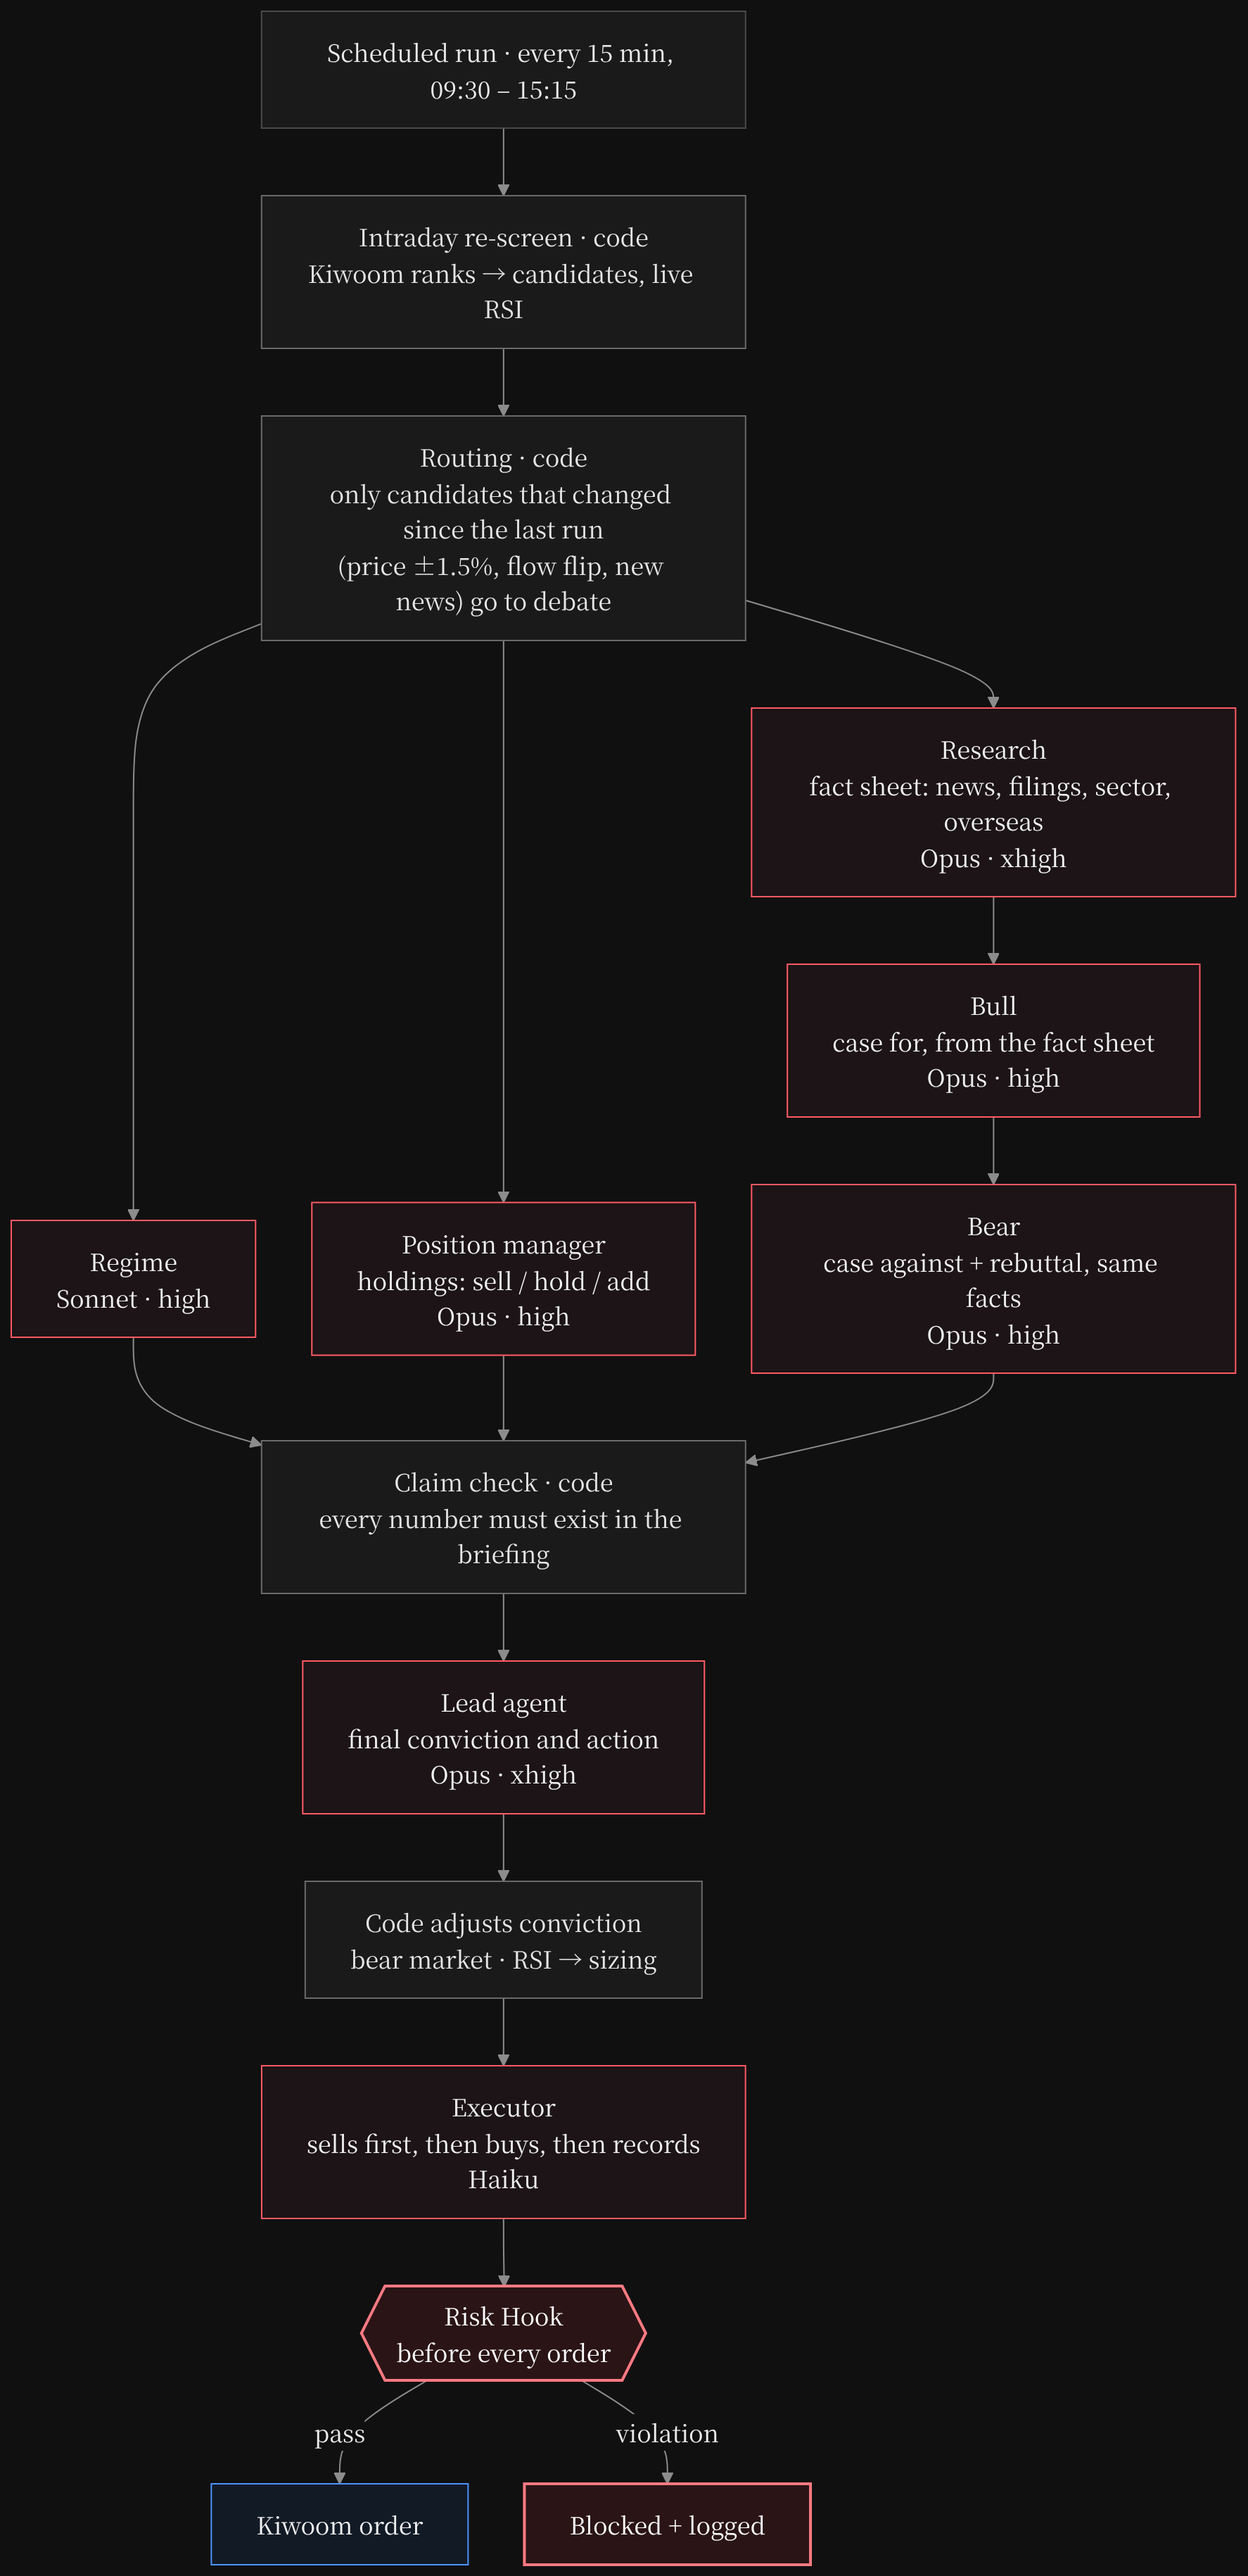
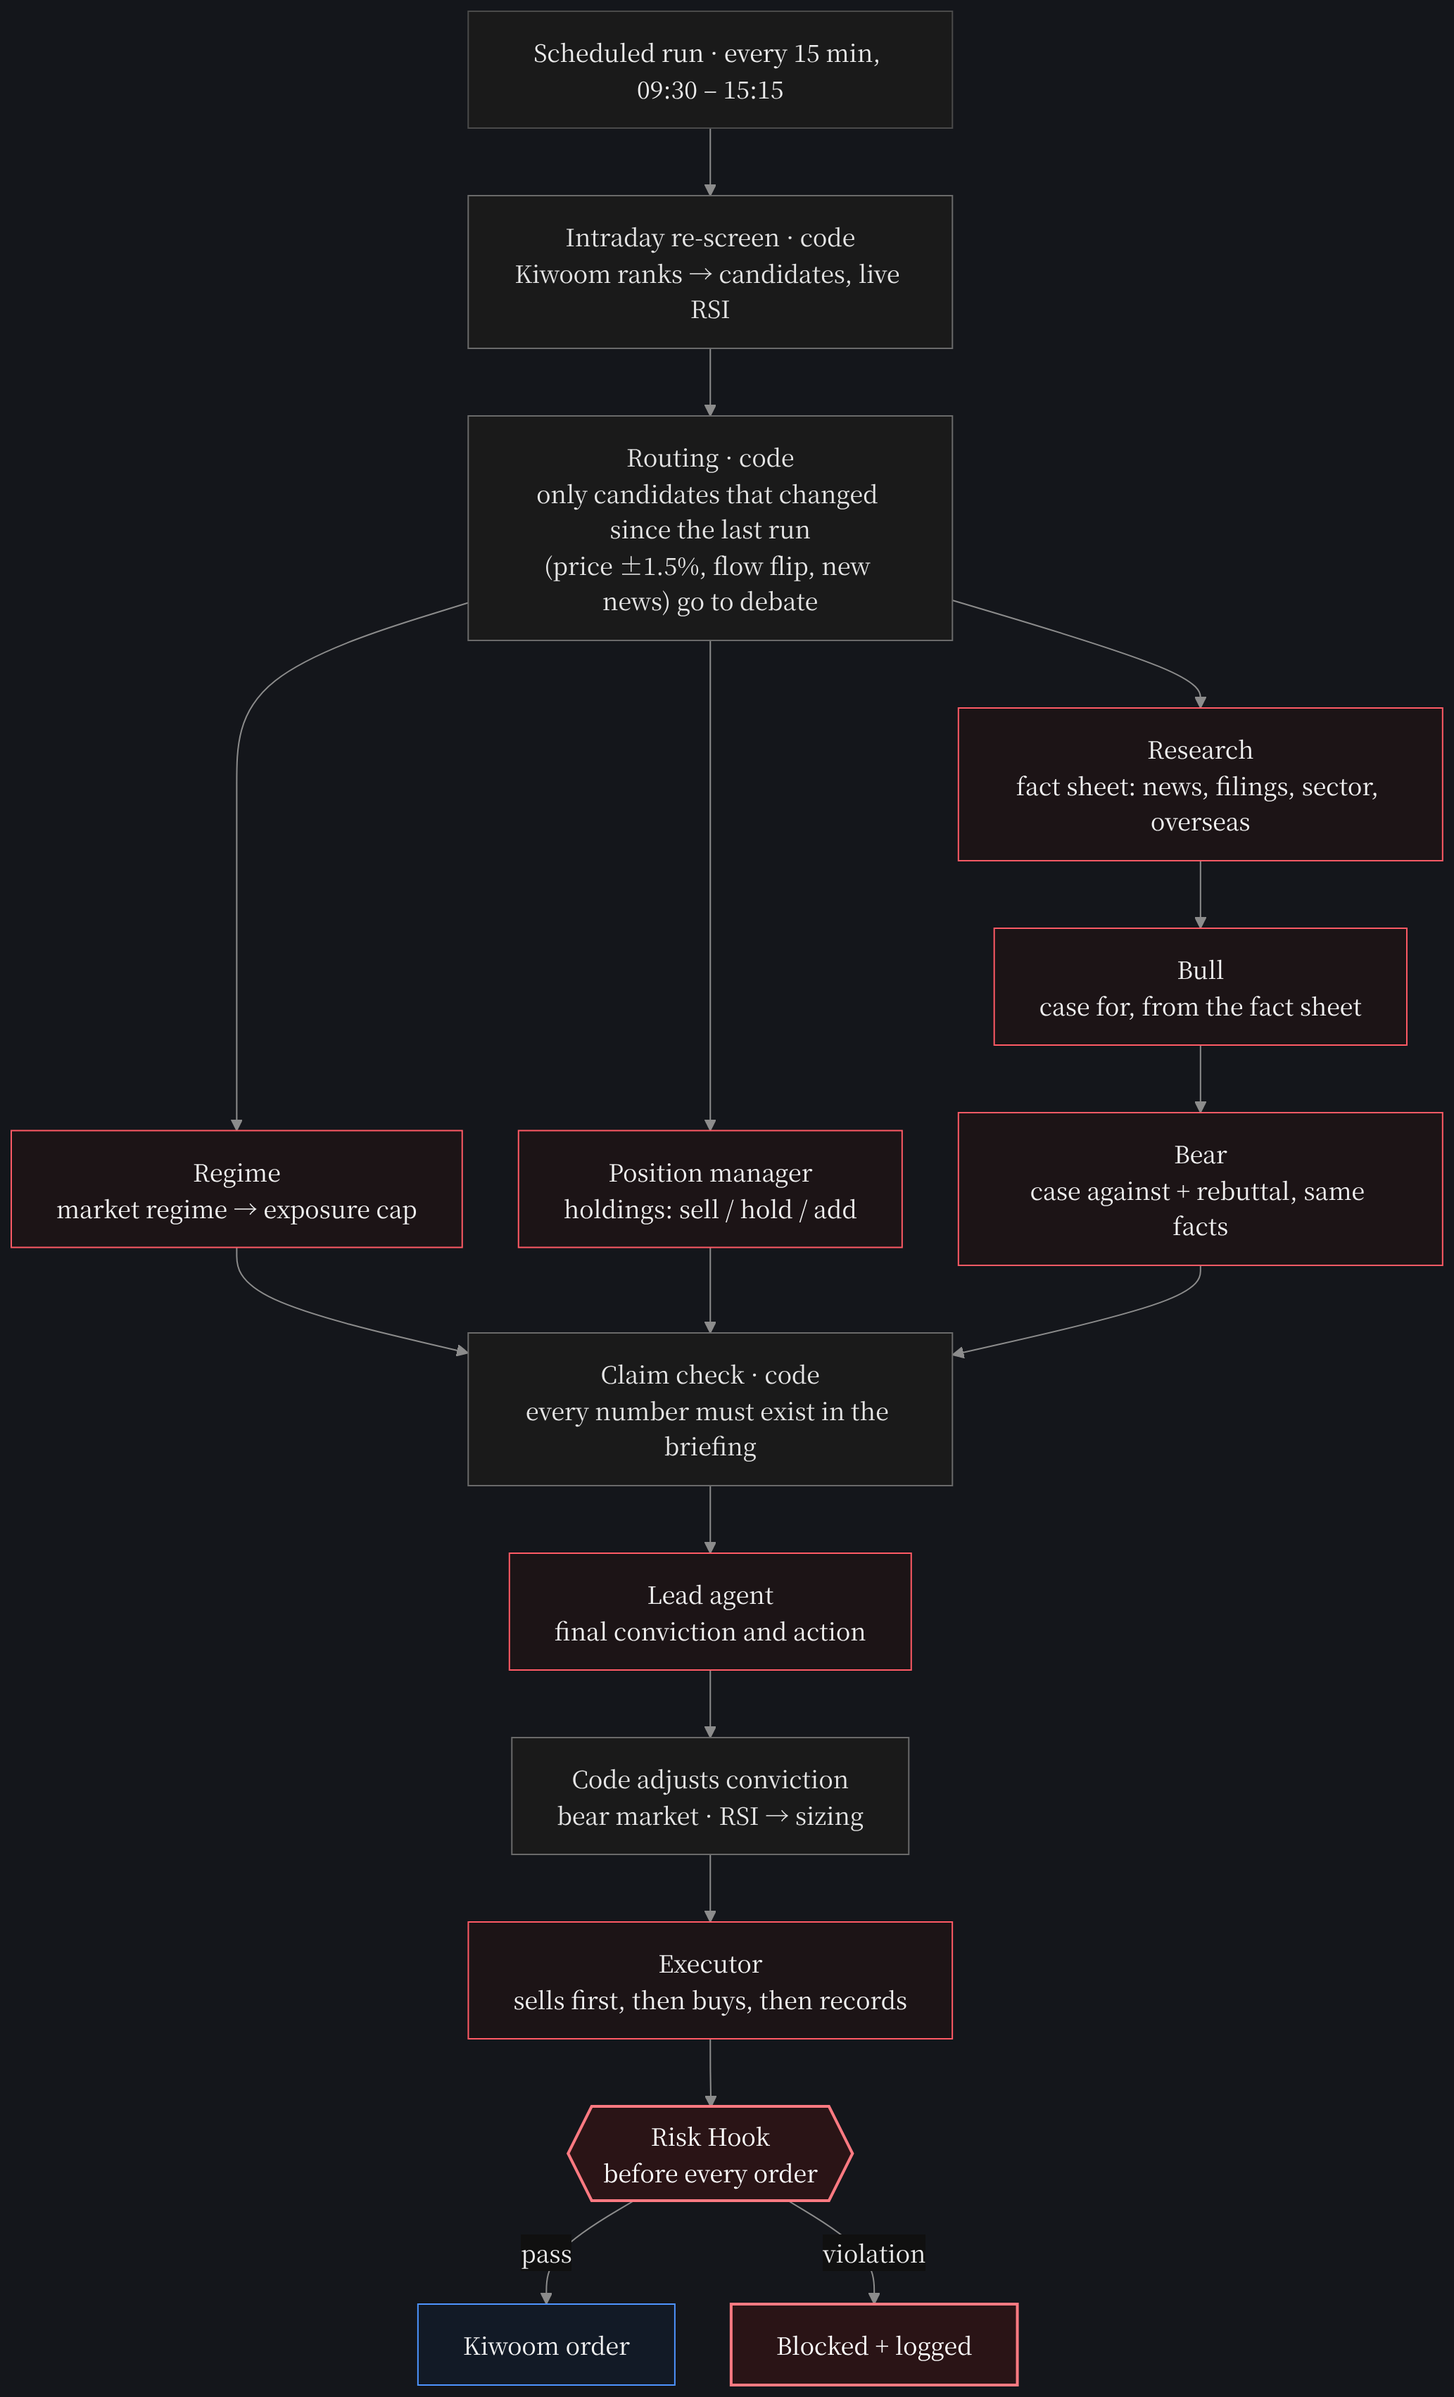
README · 도식에서 모델 이름 빼기
Claude-Session: https://claude.ai/code/session_01ATjxQjs57VEtPfES8zkL7L

diff --git a/README.ko.md b/README.ko.md
@@ -42,18 +42,17 @@ LLM에게 매매를 통째로 맡기면 두 가지가 문제입니다.
 
 <p align="center"><img src="assets/diagrams/decision.ko.png" alt="판단 1회" width="520"></p>
 
-| 에이전트 | 하는 일 | 모델 |
-|---|---|---|
-| 총괄 | 최종 확신도 · 행동 결정, 나머지 지휘 | Opus 5.5 · xhigh |
-| 국면 | 시장 국면(상승 · 횡보 · 하락) → 주식 비중 상한 | Opus 5.5 |
-| 보유 관리 | 보유 종목 매도 · 보유 · 추가 매수 | Opus 5.5 |
-| 근거 수집 | 토론 대상 종목의 사실 표 (뉴스 · 공시 · 업종) | Opus 5.5 |
-| 매수 측 / 매도 측 | 같은 사실 표로 찬반 토론 | Opus 5.5 |
-| 주문 실행 | 매도 먼저, 그다음 매수 | Haiku 5.5 |
+| 에이전트 | 하는 일 |
+|---|---|
+| 총괄 | 최종 확신도 · 행동 결정, 나머지 지휘 |
+| 국면 | 시장 국면(상승 · 횡보 · 하락) → 주식 비중 상한 |
+| 보유 관리 | 보유 종목 매도 · 보유 · 추가 매수 |
+| 근거 수집 | 토론 대상 종목의 사실 표 (뉴스 · 공시 · 업종) |
+| 매수 측 / 매도 측 | 같은 사실 표로 찬반 토론 |
+| 주문 실행 | 매도 먼저, 그다음 매수 |
 
 - **라우팅.** 직전 회차보다 달라진 후보(가격 ±1.5%, 수급 방향 바뀜, 새 뉴스)만 다시 토론하고, 나머지는 직전 판단을 이어 씁니다.
 - **근거 대조.** 매수 측 · 매도 측은 직접 검색하지 않습니다. 근거에 쓴 숫자는 코드가 브리핑 · 사실 표와 대조합니다.
-- **역할별 모델.** 확신도에 영향을 주는 일은 Opus, 기계적인 주문 처리는 Haiku.
 
 ### 울타리
 

diff --git a/README.md b/README.md
@@ -42,18 +42,17 @@ Every 15 minutes (09:30 – 15:15, 24 runs a day) the agent re-screens candidate
 
 <p align="center"><img src="assets/diagrams/decision.en.png" alt="One decision run" width="520"></p>
 
-| Agent | Job | Model |
-|---|---|---|
-| Lead | Final conviction and action, directs the rest | Opus 5.5 · xhigh |
-| Regime | Market regime (bull / sideways / bear) → stock-exposure cap | Opus 5.5 |
-| Position | Sell / hold / add for current holdings | Opus 5.5 |
-| Research | Fact sheet for the stocks under debate (news, filings, sector) | Opus 5.5 |
-| Bull / Bear | Argue for and against from the same fact sheet | Opus 5.5 |
-| Executor | Places the orders: sells first, then buys | Haiku 5.5 |
+| Agent | Job |
+|---|---|
+| Lead | Final conviction and action, directs the rest |
+| Regime | Market regime (bull / sideways / bear) → stock-exposure cap |
+| Position | Sell / hold / add for current holdings |
+| Research | Fact sheet for the stocks under debate (news, filings, sector) |
+| Bull / Bear | Argue for and against from the same fact sheet |
+| Executor | Places the orders: sells first, then buys |
 
 - **Routing.** Only candidates that changed since the last run (price ±1.5%, flow flipped, new news) are debated again; the rest carry their previous call forward.
 - **Claim check.** Bull and Bear never search on their own. Code checks every number they cite against the briefing and the fact sheet.
-- **Model per role.** Opus for anything that shapes conviction, Haiku for mechanical order work.
 
 ### Guardrails
 
